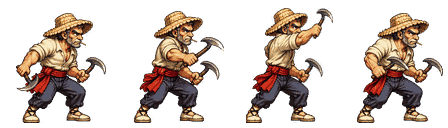
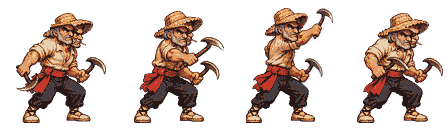
Paso 03I: sprites coherentes con paleta y rostro del IDLE
* Paso 03I: igualar paleta y rostro IDLE en corbelladas sin perder poses

* Corregir variable mutable en decodificador PNG del test

diff --git a/index.html b/index.html
@@ -4,8 +4,8 @@
   <meta charset="UTF-8" />
   <meta name="viewport" content="width=device-width, initial-scale=1, viewport-fit=cover" />
   <meta name="theme-color" content="#143b3b" />
-  <title>La Colla de la Paella · Paso 03H</title>
-  <link rel="stylesheet" href="style.css?v=03h" />
+  <title>La Colla de la Paella · Paso 03I</title>
+  <link rel="stylesheet" href="style.css?v=03i" />
 </head>
 <body>
 <main class="game-shell">
@@ -32,10 +32,10 @@
   </section>
   <footer><span id="coordinates">Posición: 120, 365</span><strong id="state">Estado: IDLE</strong><strong id="combo">Combo: —</strong><strong id="animation-label">Sprite: IDLE 1/4</strong><span id="status">Derrota al ladrón antes de recoger el arroz.</span></footer>
 </main>
-<script src="src/config.js?v=03h" defer></script>
-<script src="src/combat.js?v=03h" defer></script>
-<script src="src/animation.js?v=03h" defer></script>
-<script src="src/combo.js?v=03h" defer></script>
-<script src="src/game.js?v=03h" defer></script>
+<script src="src/config.js?v=03i" defer></script>
+<script src="src/combat.js?v=03i" defer></script>
+<script src="src/animation.js?v=03i" defer></script>
+<script src="src/combo.js?v=03i" defer></script>
+<script src="src/game.js?v=03i" defer></script>
 </body>
 </html>

diff --git a/src/game.js b/src/game.js
@@ -1,5 +1,5 @@
 /*
- LA COLLA DE LA PAELLA · PASO 03H
+ LA COLLA DE LA PAELLA · PASO 03I
  Aprende: bucle de juego, delta, teclas, controles táctiles,
  movimiento normalizado, Canvas 2D y detección de proximidad.
 */
@@ -37,9 +37,9 @@
   const walkV3Image = new Image();
   walkV3Image.src = 'assets/llaurador_walk_v3.png?v=03c3';
   const leftAttackImage = new Image();
-  leftAttackImage.src = 'assets/llaurador_attack_izquierda.png?v=03f';
+  leftAttackImage.src = 'assets/llaurador_attack_izquierda.png?v=03i';
   const rightAttackImage = new Image();
-  rightAttackImage.src = 'assets/llaurador_attack_derecha.png?v=03g1';
+  rightAttackImage.src = 'assets/llaurador_attack_derecha.png?v=03i';
   const kickImage = new Image();
   kickImage.src = 'assets/llaurador_patada.png?v=03h';
   // Si la imagen no carga, el personaje sigue visible con el dibujo Canvas de respaldo.

diff --git a/README.md b/README.md
@@ -90,3 +90,15 @@ La casilla **«Corbellada derecha: sprite nuevo»** permite probar la animación
 - `Animacion.framePorMarcas()` presenta la pose de pierna extendida justo cuando ocurre el impacto. El código evita dibujar la pierna Canvas encima del nuevo sprite.
 - `tests/sprite-kick.test.cjs` valida dimensiones, transparencia, cuatro celdas con margen lateral, alineación de pies, extensión de la pierna y referencia a la sincronía de impacto.
 - La animación es **propuesta visual para probar en juego**; el ritmo y las proporciones deben revisarse en tablet antes de aprobarla definitivamente.
+
+## Paso 03I — Paleta maestra y rostro coherente
+
+- Conservamos los fotogramas de ataque actuales y los recortes reparados en el tercer fotograma izquierdo y derecho.
+- Los sprites de izquierda y derecha se han recoloreado usando tonos extraídos de `assets/llaurador_idle.png` como paleta maestra (sin ajuste global arbitrario de brillo). La piel, vestimenta y armas siguen esta referencia.
+- Se recuperan los rasgos faciales del IDLE, incluido el escuradents, mediante un recorte de la zona facial adaptado a cada pose; la postura y las armas siguen siendo las de los ataques aprobados.
+- El parámetro `?v=03i` fuerza la actualización del recurso gráfico en navegadores que pudieran haber almacenado una versión anterior.
+- **No se alteran** los tiempos, daños, hitboxes, entradas de combo ni lógica del juego.
+- Los PNG previos son recuperables desde el historial Git.
+- El test `tests/sprite-coherence.test.cjs` verifica las dimensiones, transparencia, la luminosidad media respecto al IDLE y el margen derecho de la tercera pose izquierda.
+
+La revisión visual en navegador sigue siendo necesaria: el test no puede garantizar que cada expresión facial quede perfecta.
